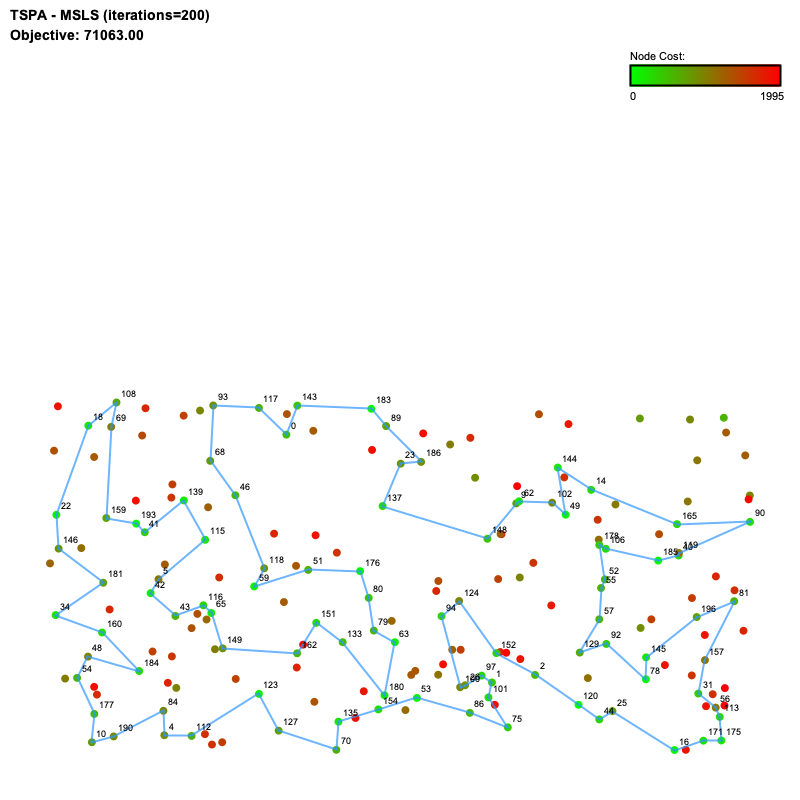
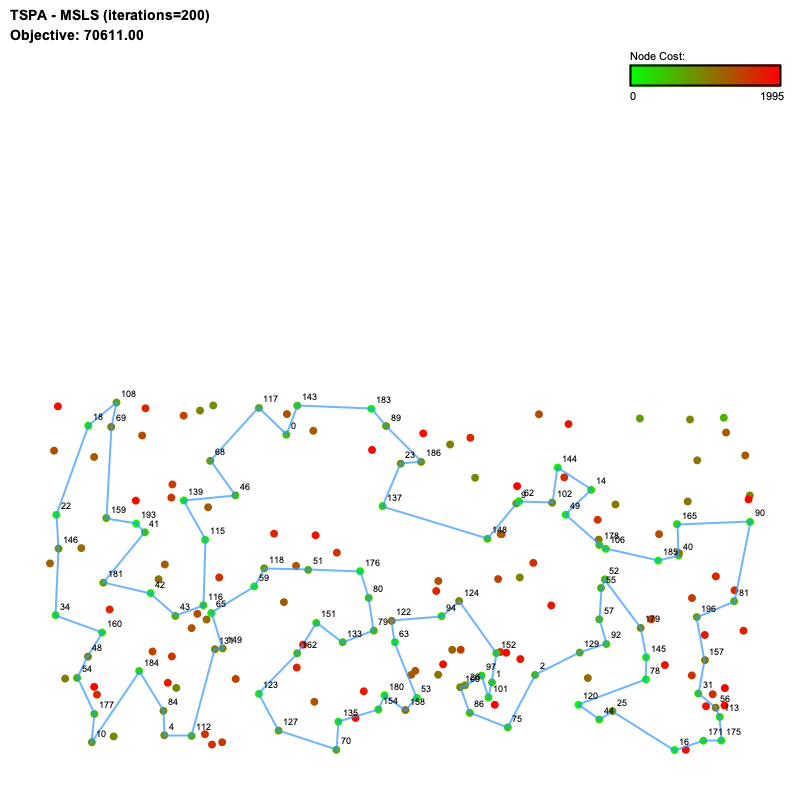
msls and ils but faster
much much faster

diff --git a/src/main/java/org/politechnika/algorithm/MSLS.java b/src/main/java/org/politechnika/algorithm/MSLS.java
@@ -1,5 +1,6 @@
 package org.politechnika.algorithm;
 
+import org.politechnika.algorithm.local_search.LocalSearchLM;
 import org.politechnika.model.Instance;
 import org.politechnika.model.Solution;
 import org.politechnika.algorithm.local_search.LocalSearch;
@@ -27,7 +28,7 @@ public class MSLS implements Algorithm {
 
             RandomSolution randomSolution = new RandomSolution(iterationSeed);
 
-            LocalSearch localSearch = new LocalSearch(randomSolution, "edge", "steepest");
+            LocalSearch localSearch = new LocalSearchLM(randomSolution);
             Solution solution = localSearch.solve(instance, startNode);
 
             if (bestSolution == null || solution.getObjectiveValue() < bestSolution.getObjectiveValue()) {

diff --git a/src/main/java/org/politechnika/algorithm/ILS.java b/src/main/java/org/politechnika/algorithm/ILS.java
@@ -1,5 +1,6 @@
 package org.politechnika.algorithm;
 
+import org.politechnika.algorithm.local_search.LocalSearchLM;
 import org.politechnika.model.Instance;
 import org.politechnika.model.Solution;
 import org.politechnika.algorithm.local_search.LocalSearch;
@@ -72,7 +73,7 @@ public class ILS implements Algorithm {
             }
         };
         
-        LocalSearch localSearch = new LocalSearch(wrapper, "edge", "steepest");
+        LocalSearch localSearch = new LocalSearchLM(wrapper);
         return localSearch.solve(instance, solution.getStartNode());
     }
 
